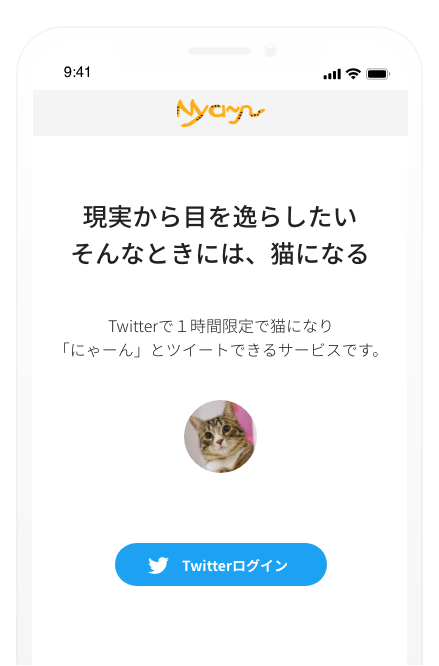
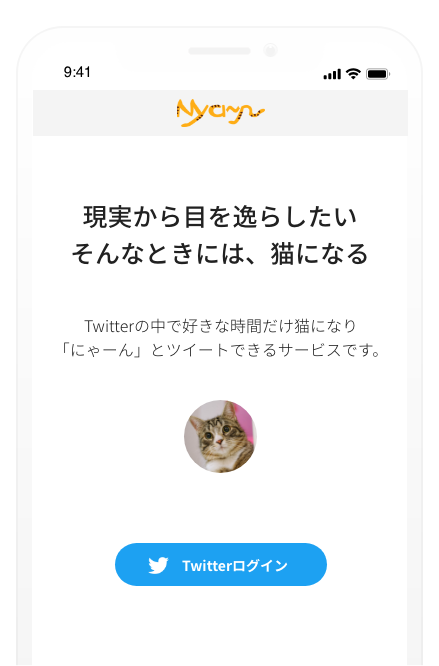
HTML,CSSの調整、imgの差し替え

Changed region(s): [[0.1777, 0.4805, 0.7995, 0.5105]]

diff --git a/public/css/style.css b/public/css/style.css
@@ -78,7 +78,7 @@ summary::-webkit-details-marker {
 /* メイン */
 .hero-wrapper{
 	margin: 0 auto ;	/* 左右に[auto]を指定することで、真ん中に寄る */
-	padding: 10px 0 ;		/* 上下左右の余白を0にしておく */
+	padding: 10px 30px ;		/* 上下左右の余白を0にしておく */
   text-align: center;
 }
 
@@ -119,7 +119,7 @@ summary::-webkit-details-marker {
 
 .feature-wrapper{
 	margin: 80px auto ;	/* 左右に[auto]を指定することで、真ん中に寄る */
-	padding: 30px 0 ;		/* 上下左右の余白を0にしておく */
+	padding: 30px 30px ;		/* 上下左右の余白を0にしておく */
   text-align: center;
   background-color: #F4F4F4;
 }
@@ -179,7 +179,7 @@ footer{
   font-size: 15px;
 	text-align: center ;				/* テキスト、画像の真ん中寄せ */
 	margin-top: 2em ;					/* 他のブロックとのスペース */
-	padding: 3em 0 ;					/* 上下の余白 */
+	padding: 3em 0px ;					/* 上下の余白 */
 	background: #F4F4F4 ;
   text-decoration: none;
 }
@@ -209,17 +209,12 @@ a{
   display: flex;
   justify-content: center;
   align-items: center;
+  padding : 0;
 }
 
 .links li{
   position: relative;
   padding: 0 13px;
-}
-
-.links li:not(:first-child):before{
-  position: absolute;
-  content: '|';
-  left: -2px;
 }
 
 /*===============================================
@@ -235,6 +230,14 @@ a{
 
   .inner-wrapper{
     padding: 0 20px
+  }
+
+  .links{
+    display: block;
+  }
+
+  .links li{
+    padding: 5px 0;
   }
 
 }

diff --git a/resources/views/layouts/master.blade.php b/resources/views/layouts/master.blade.php
@@ -6,11 +6,11 @@
 	<meta http-equiv="Content-Type" content="text/html; charset=UTF-8">
 	<meta name=viewport content="width=device-width,initial-scale=1">
 	<meta name="description" content="現実から目を逸らしたい そんなときには、猫になる。
-  Twitterで１時間限定で猫になり「にゃーん」とツイートできるサービスです。">
+  Twitterの中で好きな時間だけ猫になり「にゃーん」とツイートできるサービスです。">
 	<meta name="keywords" content="nyan">
 	<meta property="og:title" content="nyan"/>
 	<meta property="og:description" content="現実から目を逸らしたい そんなときには、猫になる。
-  Twitterで１時間限定で猫になり「にゃーん」とツイートできるサービスです。"/>
+  Twitterの中で好きな時間だけ猫になり「にゃーん」とツイートできるサービスです。"/>
 	<meta property="og:type" content="website"/>
 	<meta property="og:url" content="https://nyan-iritec.herokuapp.com"/>
 	<meta property=”og:locale” content=”ja_JP”/>
@@ -21,7 +21,7 @@
 	<meta name="twitter:site" content="@nyan_iritec">
 	<meta name="twitter:title" content="nyan | 猫になる">
 	<meta name="twitter:description" content="現実から目を逸らしたい そんなときには、猫になる。
-  Twitterで１時間限定で猫になり「にゃーん」とツイートできるサービスです。"/>
+  Twitterの中で好きな時間だけ猫になり「にゃーん」とツイートできるサービスです。"/>
 	<meta name="twitter:image" content="https://nyan-iritec.herokuapp.com/public/img/ogp.png">
 
 <!-- Global site tag (gtag.js) - Google Analytics -->

diff --git a/resources/views/top.blade.php b/resources/views/top.blade.php
@@ -4,7 +4,7 @@
 <div class="hero-wrapper">
 
   <h1 class="hero-title m-b4">現実から目を逸らしたい<br>そんなときには、猫になる</h1>
-  <p class="hero-txt">Twitterで１時間限定で猫になり「にゃーん」とツイートできるサービスです。</p>
+  <p class="hero-txt">Twitterの中で好きな時間だけ猫になり「にゃーん」とツイートできるサービスです。</p>
   <img class="hero-icon" src="./img/cat01.svg" alt="">
   @if (Auth::check())
     <a href="" class="btn">
@@ -24,7 +24,7 @@
     <img class="feature-icon " src="./img/cat02.svg" alt="">
     <h2 class="feature-subtitle m-b1 m-t1">Twiterのアイコンが猫に</h2>
     <p class="feature-txt">Twitterのアイコンが猫になります。<br>
-      １時間後に自動で元のアイコンに戻ります。</p>
+      現実に戻るボタンで元のアイコンに戻ります。</p>
   </div>
   <div class="feature-content">
     <img class="feature-icon" src="./img/twitter-white02.svg" alt="">
